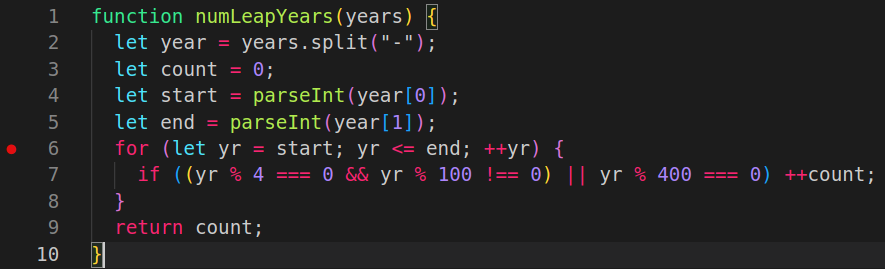
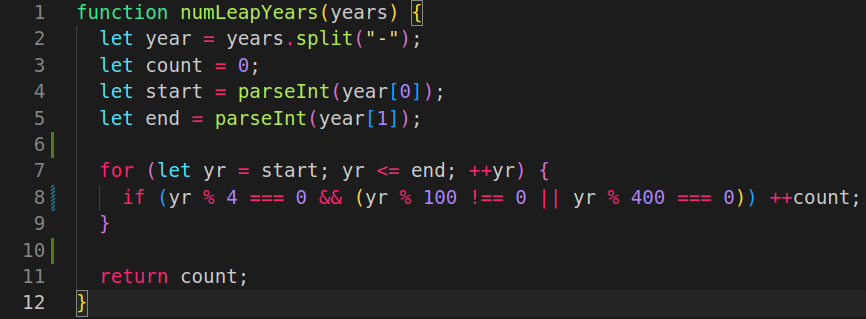
fix: update code, imgs

diff --git a/edabit/6VH-string-incrementer/string-incrementer.js b/edabit/6VH-string-incrementer/string-incrementer.js
@@ -2,19 +2,11 @@ const incrementString = (str) => {
   let strArr = str.split(/(\d+)/);
   let strWord = strArr[0];
   let num = strArr[1];
+
   if (/(\d+)/.test(str)) {
-    let leadingZeros = num.match(/^0*/g);
     num = parseInt(num) + 1;
-    return strWord +  leadingZeros + num;
-  } else {
-    return (str += "1");
-  }
+    return strWord + num.toString().padStart(strArr[1].length, 0);
+  } else return (str += "1");
 };
 
 // https://edabit.com/challenge/4cKsMQnxaA7APdeg4
-
-https: console.log(incrementString("foo"));
-console.log(incrementString("foobar01002"));
-console.log(incrementString("foobar00599"));
-console.log(incrementString("foo099"));
-console.log(incrementString("foo09999"));

diff --git a/edabit/2H-number-of-leap-years/numLeapYears.js b/edabit/2H-number-of-leap-years/numLeapYears.js
@@ -3,9 +3,11 @@ function numLeapYears(years) {
   let count = 0;
   let start = parseInt(year[0]);
   let end = parseInt(year[1]);
+  
   for (let yr = start; yr <= end; ++yr) {
-    if ((yr % 4 === 0 && yr % 100 !== 0) || yr % 400 === 0) ++count;
+    if (yr % 4 === 0 && (yr % 100 !== 0 || yr % 400 === 0)) ++count;
   }
+  
   return count;
 }
 
